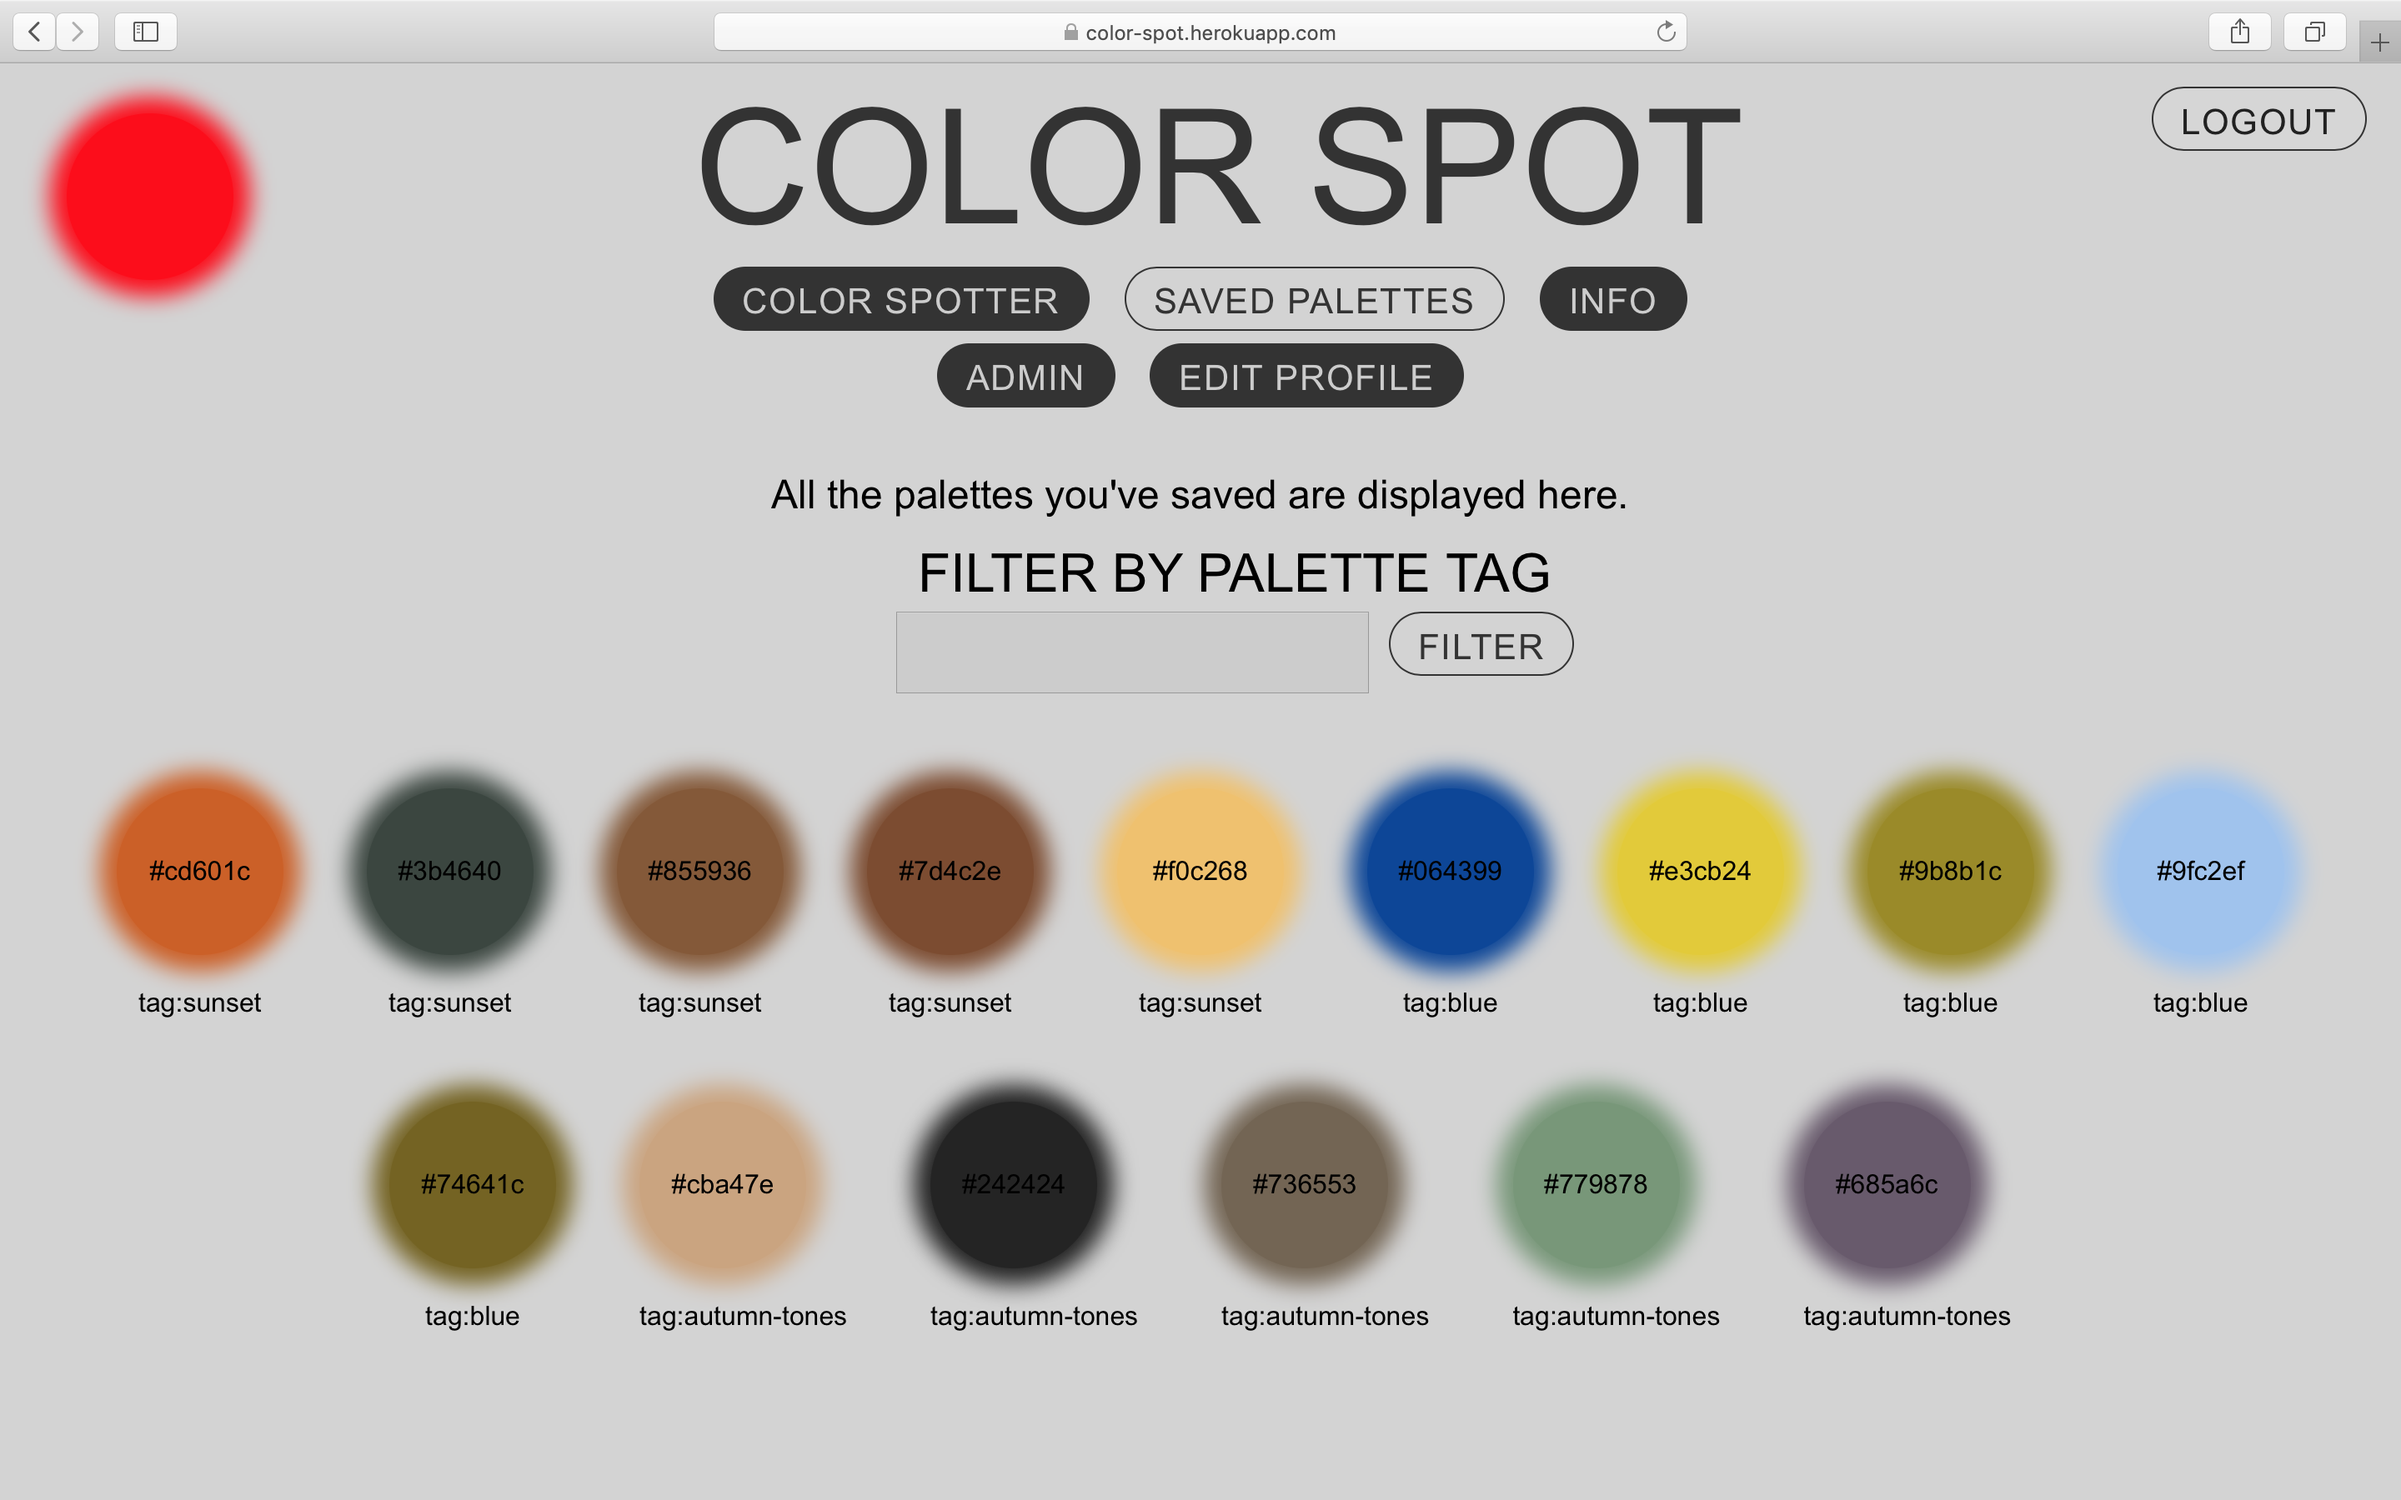
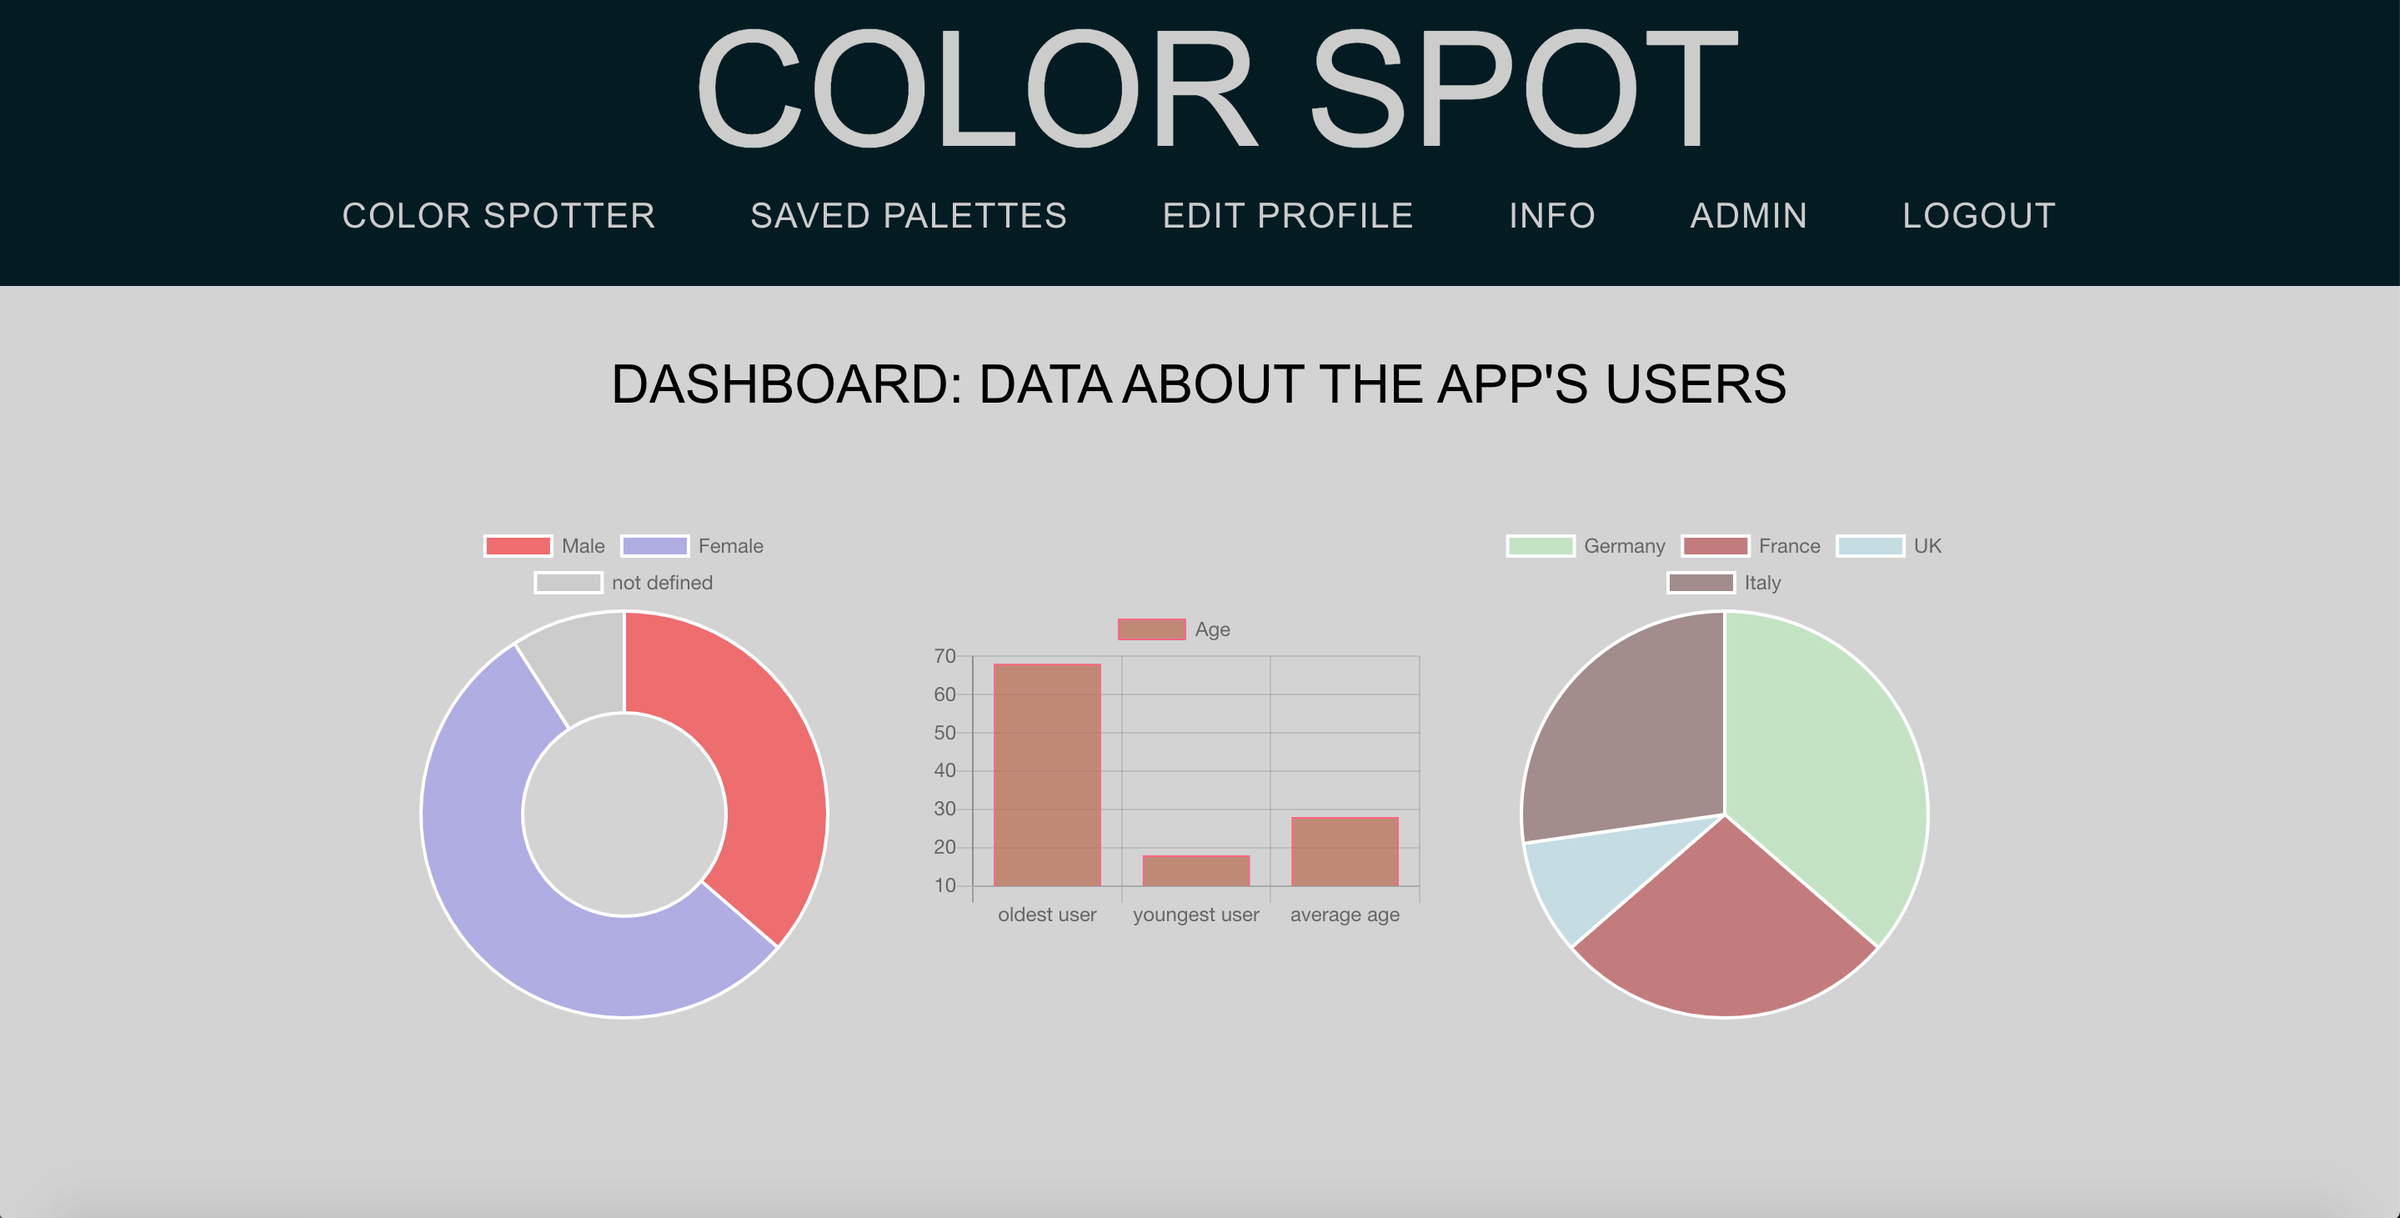
fixed design

diff --git a/public/styles.css b/public/styles.css
@@ -24,11 +24,14 @@ header {
     width: 100%;
     align-items: center;
     flex-direction: column;
-    background-color: #333;
+    background-color: rgb(3, 27, 34);
 }
 
 footer {
-    margin-top: 20px;
+    left: 0;
+    right: 0;
+    position: fixed;
+    bottom: 0;
     display: flex;
     align-items: center;
     justify-content: center;
@@ -36,15 +39,30 @@ footer {
     color: lightgrey;
     height: 50px;
     text-align: center;
+    padding: 30px;
+    margin: 0;
+    width: 100%;
+    margin-top: 50px;
+    font-size: 1.2rem;
+    line-height: 1.5;
+    margin-bottom: -5px;
 }
 
-span.footer-text,
-a.footer-text,
-a.footer-text:hover,
 a.footer-text:active,
 a.footer-text:visited {
     color: lightgrey;
-    font-size: 1rem;
+}
+
+a.footer-text:hover {
+    text-decoration: none;
+    color: lightgrey;
+}
+
+span.footer-close {
+    font-size: 2.5rem;
+    cursor: pointer;
+    padding-left: 10px;
+    margin-right: 15px;
 }
 
 div.logo {
@@ -98,20 +116,9 @@ nav.options-buttons {
     width: 100%;
     text-align: center;
     margin-bottom: 20px;
-    background-color: #333;
+    background-color: rgb(3, 27, 34);
     padding-bottom: 20px;
-}
-
-@media (max-width: 600px) {
-    nav.options-buttons {
-        margin-top: 25px;
-    }
-}
-
-@media (max-width: 550px) {
-    nav.options-buttons {
-        margin-top: 40px;
-    }
+    margin-top: -5px;
 }
 
 a,
@@ -122,7 +129,7 @@ a:active {
 }
 
 .nav,
-button.logout {
+button.nav {
     display: inline-block;
     vertical-align: top;
     font-size: 1.3rem;
@@ -130,14 +137,16 @@ button.logout {
     min-width: 1.5em;
     border-radius: 10em;
     color: #ccc;
-    background-color: #333;
+    background-color: rgb(3, 27, 34);
     border: 1px solid transparent;
     text-transform: uppercase;
     margin: 0.2em 0.5em;
     padding: 0.4em 0.8em 0.2em;
+    cursor: pointer;
 }
 
-a.nav:hover {
+a.nav:hover,
+button.nav:hover {
     color: #333;
     background-color: lightgrey;
     border: 1px solid #333;
@@ -145,7 +154,8 @@ a.nav:hover {
 
 @media (max-width: 630px) {
     span.options,
-    a.nav {
+    a.nav,
+    button.nav {
         font-size: 1rem;
     }
 }
@@ -167,7 +177,7 @@ a.admin {
     min-width: 1.5em;
     border-radius: 10em;
     color: #ccc;
-    background-color: #333;
+    background-color: rgb(3, 27, 34);
     border: 1px solid transparent;
     text-transform: uppercase;
     margin: 0.2em 0.5em;
@@ -198,44 +208,6 @@ div.member-otions {
     background-color: #333;
 }
 
-button.logout {
-    color: #333;
-    background: #d6d6d6;
-    border: 1px solid #333;
-    text-transform: uppercase;
-    position: absolute;
-    right: 10px;
-    top: 10px;
-    cursor: pointer;
-}
-
-@media (max-width: 750px) {
-    button.logout {
-        right: 0;
-        top: 80px;
-    }
-}
-
-@media (max-width: 630px) {
-    button.logout {
-        font-size: 1rem;
-    }
-}
-
-@media (max-width: 600px) {
-    button.logout {
-        right: 50%;
-        transform: translateX(50%);
-        margin-bottom: 20px;
-    }
-}
-
-@media (max-width: 455px) {
-    button.logout {
-        top: 170px;
-    }
-}
-
 /* COLOR SPOTTER */
 div.color-graber {
     margin-top: 35px;
@@ -263,7 +235,7 @@ div.saved_palettes_container {
     display: flex;
     justify-content: center;
     flex-wrap: wrap;
-    margin-left: 50px;
+    margin-left: 20px;
 }
 
 ul {
@@ -301,7 +273,7 @@ button.save {
     border: 1px solid transparent;
     text-transform: uppercase;
     margin: 0.2em 0.5em;
-    padding: 0.4em 0.8em 0.2em;
+    padding: 0.4em 0.4em 0.4em;
     cursor: pointer;
 }
 
@@ -319,6 +291,7 @@ p.drop-graber {
     text-align: center;
     font-size: 1.5rem;
     cursor: crosshair;
+    border-radius: 12px;
 }
 
 /* SAVED PALETTES */
@@ -452,7 +425,7 @@ button.submit {
     border: 1px solid transparent;
     text-transform: uppercase;
     margin: 0.2em 0.5em;
-    padding: 0.4em 0.8em 0.2em;
+    padding: 0.4em 0.4em 0.4em;
     cursor: pointer;
 }
 

diff --git a/src/admin.js b/src/admin.js
@@ -40,15 +40,11 @@ function Admin() {
                         {
                             data: genderArr,
                             backgroundColor: [
-                                "rgba(93, 114, 146, 1)",
-                                "rgba(109, 79, 107, 1)",
+                                "#f06c6c",
+                                "#b0ace4",
                                 "rgba(204, 204, 204, 1)"
                             ],
-                            hoverBackgroundColor: [
-                                "rgba(93, 114, 146, 0.5)",
-                                "rgba(109, 79, 107, 0.5)",
-                                "rgba(204, 204, 204, 0.5)"
-                            ]
+                            hoverBackgroundColor: ["#ccc", "#ccc", "#ccc"]
                         }
                     ]
                 });
@@ -117,16 +113,16 @@ function Admin() {
                         {
                             data: country_values,
                             backgroundColor: [
-                                "rgb(176, 107, 66)",
-                                "rgb(222, 169, 77)",
-                                "rgb(221, 203, 86)",
-                                "rgba(115, 79, 36, 1)"
+                                "#c3e4c4",
+                                "#c47c7c",
+                                "#c4dce4",
+                                "#a48c8c"
                             ],
                             hoverBackgroundColor: [
-                                "rgba(176, 107, 66, 0.5)",
-                                "rgba(222, 169, 77, 0.5)",
-                                "rgb(221, 203, 86, 0.5)",
-                                "rgba(115, 79, 36, 0.5)"
+                                "#ccc",
+                                "#ccc",
+                                "#ccc",
+                                "#ccc"
                             ]
                         }
                     ]

diff --git a/src/app.js b/src/app.js
@@ -12,6 +12,7 @@ import { Helmet } from "react-helmet";
 
 function App() {
     const [loggedIn, setLoggedIn] = useState(false);
+    const [footer, setFooter] = useState(true);
 
     useEffect(() => {
         axios
@@ -124,13 +125,13 @@ function App() {
                     <Link to="/admin" activeclassname="active" className="nav">
                         Admin
                     </Link>
-                </nav>
 
-                {loggedIn && (
-                    <button onClick={logout} className="logout">
-                        LOGOUT
-                    </button>
-                )}
+                    {loggedIn && (
+                        <button onClick={logout} className="nav">
+                            LOGOUT
+                        </button>
+                    )}
+                </nav>
 
                 <Route path="/profile" component={Profile}></Route>
                 <Route path="/info" component={Info}></Route>
@@ -175,6 +176,27 @@ function App() {
                     )}
                 />
             </BrowserRouter>
+
+            {footer && (
+                <footer>
+                    <span class="footer-close" onClick={() => setFooter(false)}>
+                        X
+                    </span>
+                    <span class="footer-text">
+                        By using this website you agree to the use of cookies.
+                        <br />
+                        COLOR SPOT © 2020 - see project on&nbsp;
+                        <a
+                            class="footer-text"
+                            href="https://github.com/AudreyKj/color-search-app"
+                            target="_blank"
+                            rel="noopener noreferrer"
+                        >
+                            GitHub
+                        </a>
+                    </span>
+                </footer>
+            )}
         </div>
     );
 }

diff --git a/src/color-graber.js b/src/color-graber.js
@@ -46,17 +46,15 @@ function ColorGraber(props) {
         <div className="color-graber">
             <Dropzone onDrop={acceptedFiles => handledropped(acceptedFiles)}>
                 {({ getRootProps, getInputProps }) => (
-                    <section>
-                        <div className="drop-graber" {...getRootProps()}>
-                            <input {...getInputProps()} />
-                            <p className="drop-graber">
-                                GET THE COLORS OF AN IMAGE: <br />
-                                <br />
-                                Drag and drop your image here <br />
-                                or click to select your file
-                            </p>
-                        </div>
-                    </section>
+                    <div className="drop-graber" {...getRootProps()}>
+                        <input {...getInputProps()} />
+                        <p className="drop-graber">
+                            GET THE COLORS OF AN IMAGE: <br />
+                            <br />
+                            Drag and drop your image here <br />
+                            or click to select your file
+                        </p>
+                    </div>
                 )}
             </Dropzone>
 

diff --git a/src/saved.js b/src/saved.js
@@ -86,8 +86,7 @@ function Saved(props) {
                                     <div
                                         className="single-color"
                                         style={{
-                                            backgroundColor: name,
-                                            boxShadow: `0px 0px 15px 10px ${name}`
+                                            backgroundColor: name
                                         }}
                                     >
                                         {name}

diff --git a/src/info.js b/src/info.js
@@ -5,7 +5,7 @@ function Info() {
         <div className="info-wrapper">
             <p className="info">
                 GRAB THE COLORS OF AN IMAGE & SAVE PALETTES <br /> <br />
-                This website enables users to detect colors in images as well as
+                This website enables you to detect colors in images as well as
                 save and categorize color palettes. You need to be logged in to
                 be able to save palettes & grow collections. <br />
                 <br />

diff --git a/README.md b/README.md
@@ -27,7 +27,7 @@ API used: color-thief by Lokesh Dhakar
 
 ## Tech
 
-**Stack**: HTML, SASS/SCSS, JavaScript, React, Node.js, PostgreSQL <br />
+**Stack**: SASS/SCSS, JavaScript, React, Node.js, PostgreSQL <br />
 **Protection**: CSURF <br />
 **Testing**: React Testing Library + Jest | **Deployment**: Heroku
 
@@ -41,9 +41,7 @@ API used: color-thief by Lokesh Dhakar
 
 ![screenshot](readMe/screenshot_1.png)
 ![screenshot](readMe/screenshot_2.png)
-![screenshot](readMe/screenshot_3.png)
-![screenshot](readMe/screenshot_4.png)
 
 <p align="center">
-<img width="400" height="570" src="readMe/mobile.png">
+<img width="400" height="573" src="readMe/mobile.png">
 </p>
